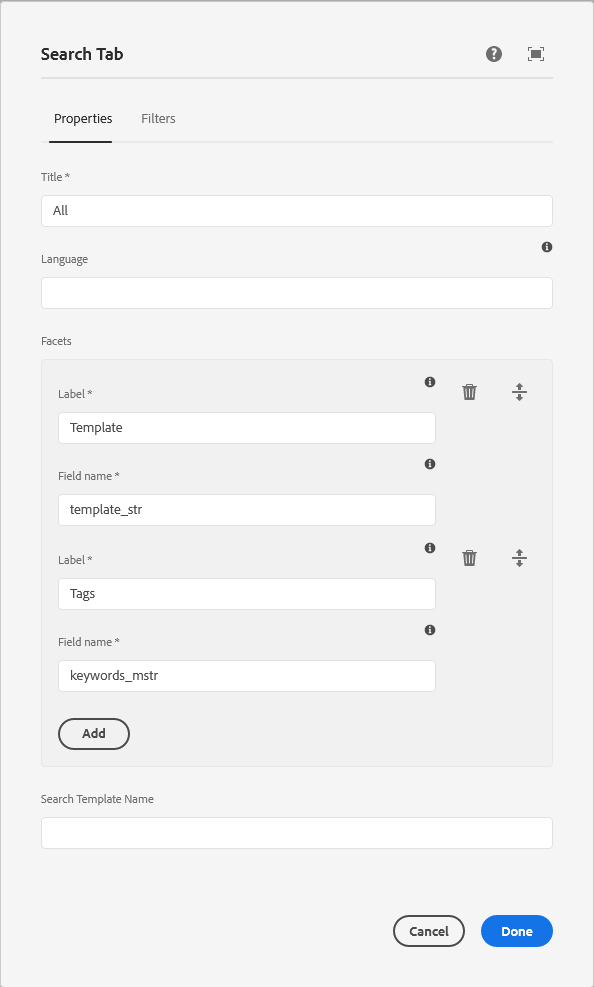
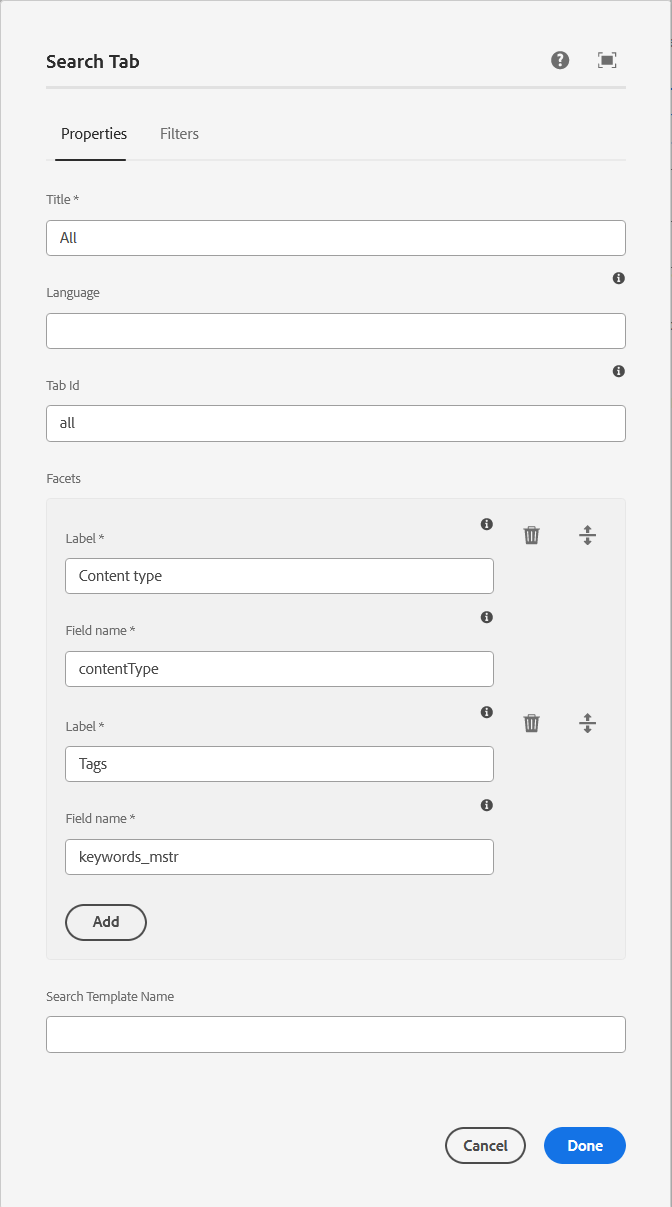
docs(ICSAAS-488): adjusted README.md with new features

diff --git a/ui.apps/src/main/content/jcr_root/apps/saas-aem-module/components/searchtab/README.md b/ui.apps/src/main/content/jcr_root/apps/saas-aem-module/components/searchtab/README.md
@@ -21,10 +21,12 @@ This is a component that is placed in the responsive-grid of the [Search](../sea
 The following properties are written to JCR for the Search component and are expected to be available as `Resource` properties:
 
 1. `./title` - Will store the text of the title to be rendered on the top of the component. (Required)
-2. `./facets` - Defines list of (label, index field name). This enables filtering of the search results by index fields.
-3. `./filters` - Defines list of simple search filter entries. The filter entries are joined with a logical 'AND'
+2. `./language` - Language to be used in the search query. Optional, can be defined to override of context resolved language.
+3. `./tabId` - Optional tab id which can be used to deep link to a search result tab.
+4. `./facets` - Defines list of (label, index field name). This enables filtering of the search results by index fields.
+5. `./template` - Defines SaaS query template name.
+6. `./filters` - Defines list of simple search filter entries. The filter entries are joined with a logical 'AND'
    operator.
-4. `./template` - Defines SaaS query template name.
 
 ![dialog tab properties](../../../../../../../../../images/searchtab_dialog_properties.png)
 ![dialog tab filters collapsed](../../../../../../../../../images/searchtab_dialog_filters_collapsed.png)
